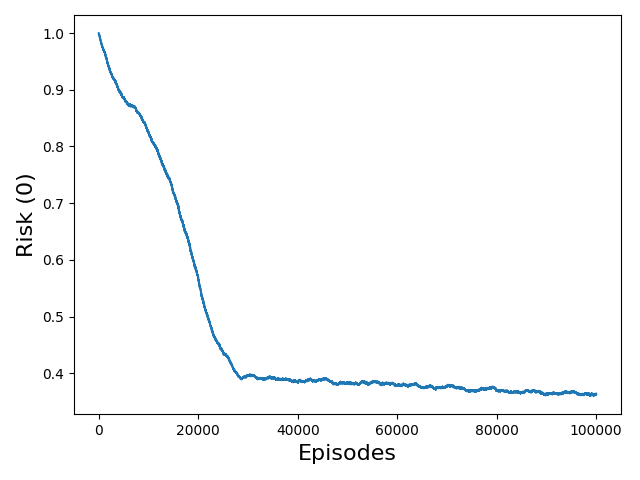
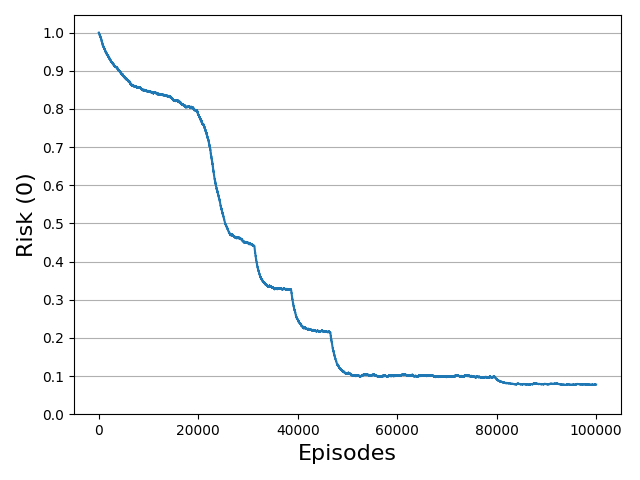
safety params are achieved for mc

diff --git a/examples/safe_mc.py b/examples/safe_mc.py
@@ -14,6 +14,7 @@ N_sa=np.zeros((env.state_count,env.action_size))
 H_sa=np.ones((env.state_count,env.action_size))
 
 gamma=0.99
+alpha=1e-4
 beta=0.999
 unsafe_prob=0.1
 episodes=100000
@@ -34,7 +35,7 @@ for episode in tqdm(range(episodes)):
         seen.append((s,a))
         
         N_sa[s,a]+=1
-        Q_sa[s,a]+=(G-Q_sa[s,a])/(N_sa[s,a])
+        Q_sa[s,a]+=alpha*(G-Q_sa[s,a])
         H_sa[s,a]=(beta*H_sa[s,a]+(1-beta)*unsafe)
 
     risk.append(H_sa[0].mean())
@@ -55,9 +56,11 @@ plt.savefig("./logs/safe_mc/reward.png")
 plt.close()
 
 plt.plot(risk)
+plt.yticks(np.arange(0,1.1,0.1))
 plt.ylabel('Risk (0)',fontsize=16)
 plt.xlabel('Episodes',fontsize=16)
 plt.tight_layout()
+plt.grid(axis='y')
 plt.savefig("./logs/safe_mc/risk.png")
 plt.close()
 
